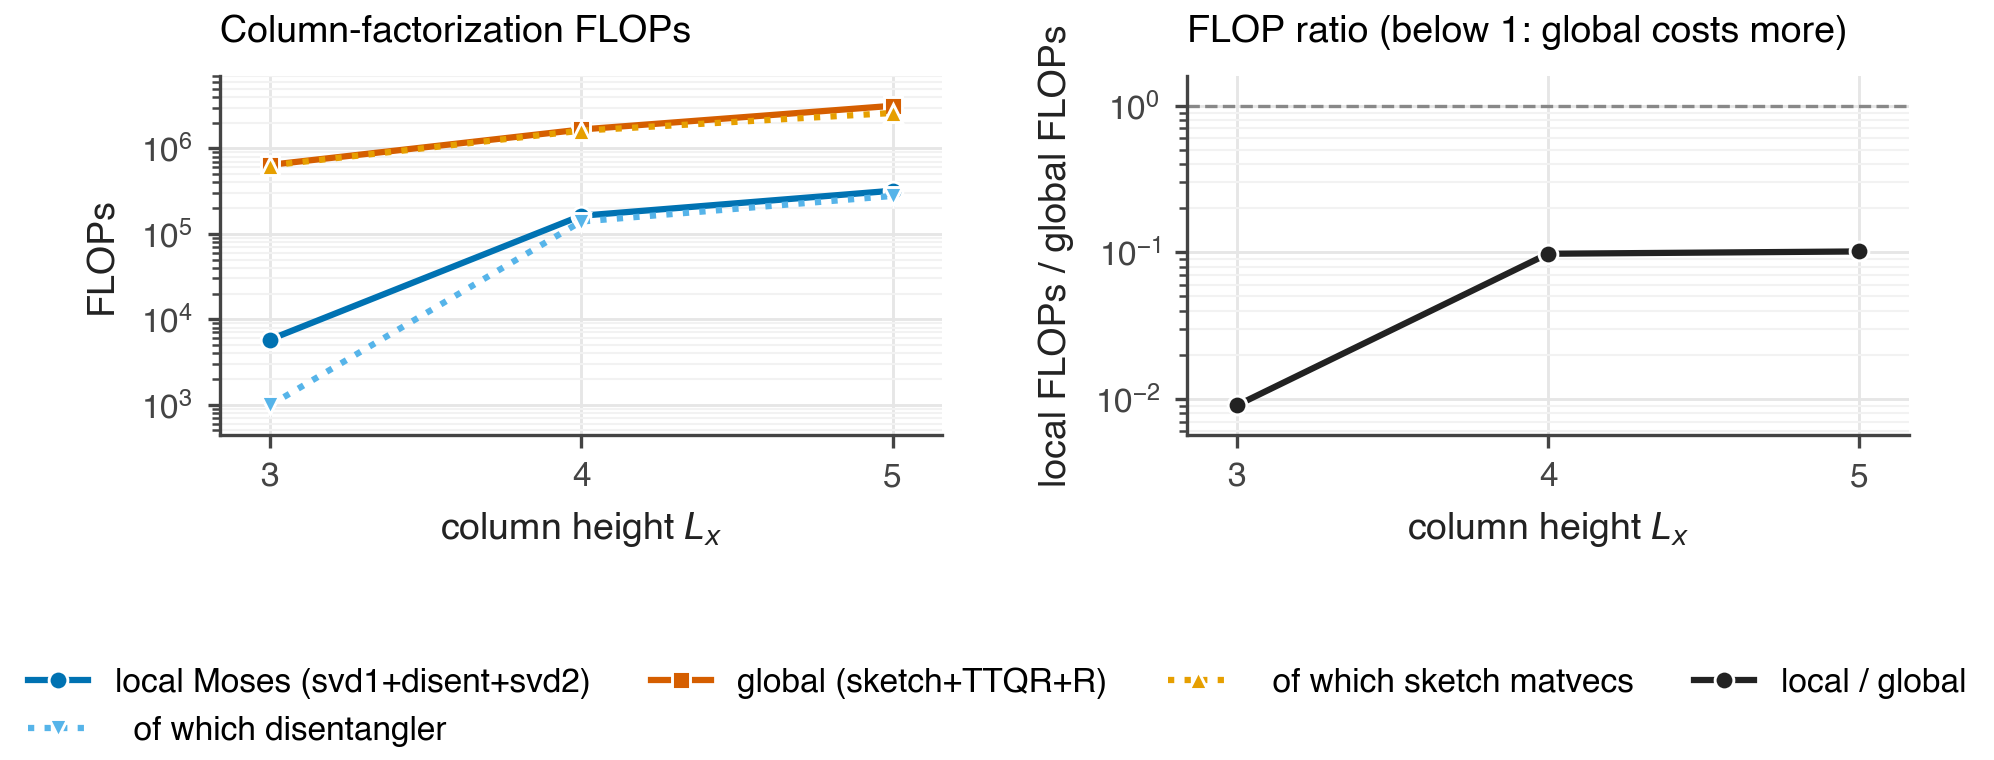
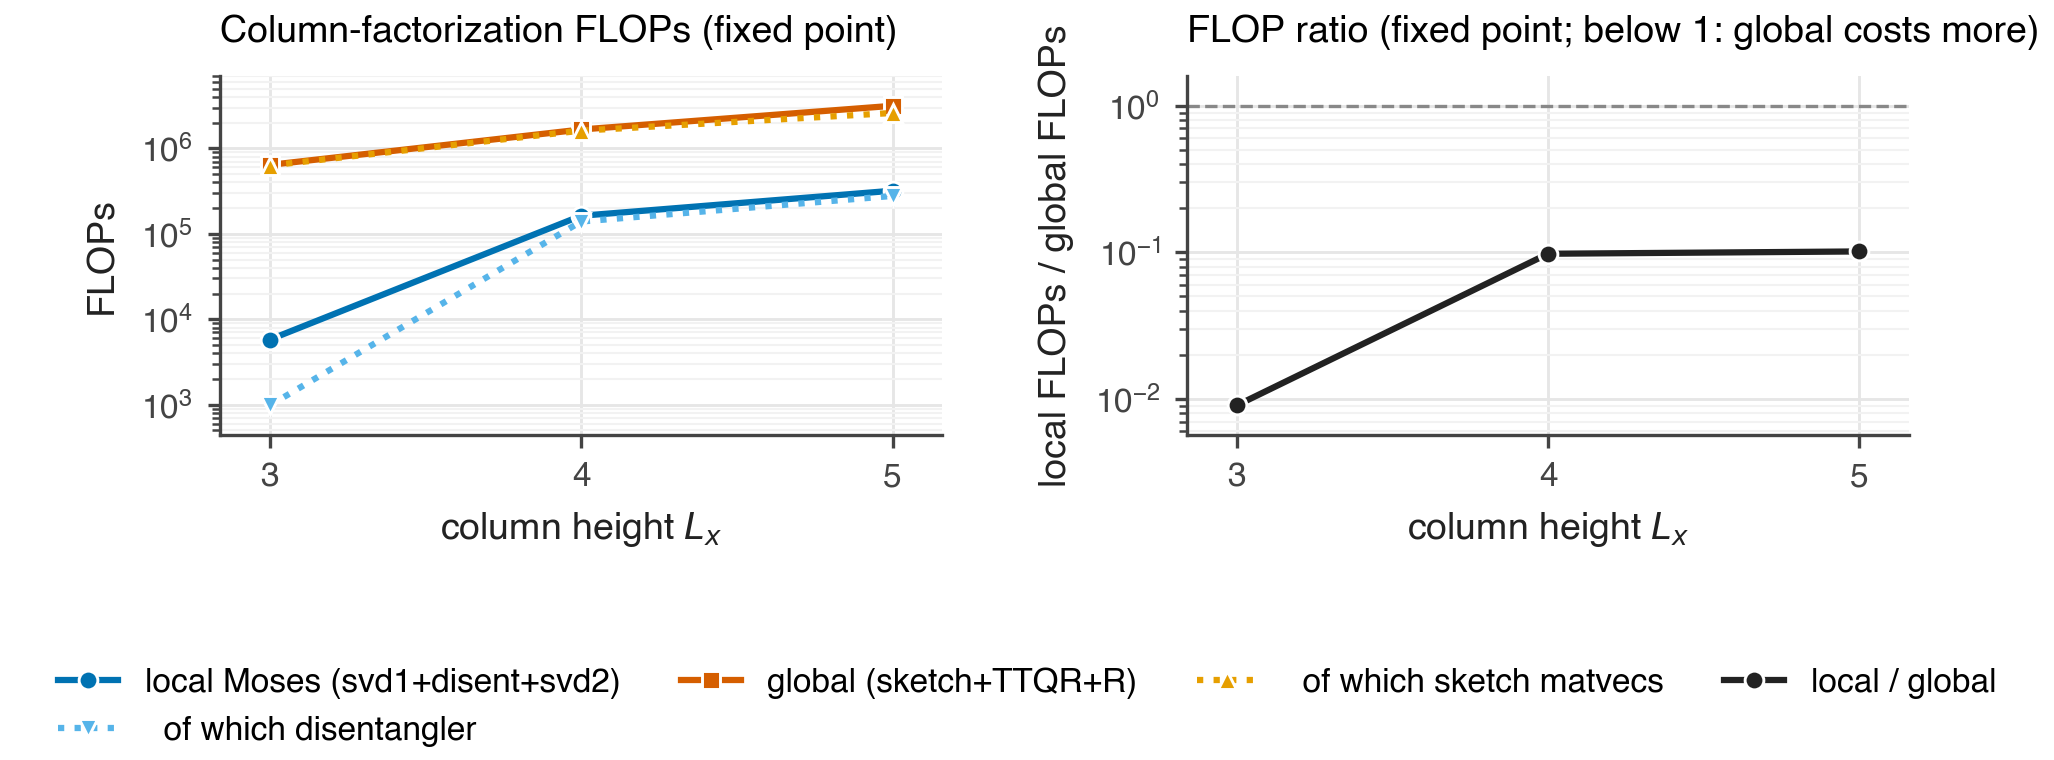
exp7: label the cost figure as the fixed operating point (not accuracy-matched)
The exp7 cost comparison charges global at a fixed ell=eta+oversample,
eta_q=eta -- overkill for an effective-rank ~2 physical column -- so its
'global 4-100x more expensive' read is a fixed-point artifact that exp08
corrects at matched accuracy. Title now says so; figure regenerated.

diff --git a/experiments/column_sketch/scripts/exp07_cost_comparison.py b/experiments/column_sketch/scripts/exp07_cost_comparison.py
@@ -167,13 +167,15 @@ def make_plot(rows, fig_path, args):
     xs = sorted({int(r["lx"]) for r in rows})
     ratio = [float(np.median([float(r["flop_ratio"]) for r in rows if int(r["lx"]) == x])) for x in xs]
     panel_a = Panel(
-        "Column-factorization FLOPs", r"column height $L_x$", "FLOPs", "log",
+        "Column-factorization FLOPs (fixed point)", r"column height $L_x$", "FLOPs", "log",
         _series(rows, SERIES_ORDER),
     )
     panel_b = Panel(
-        # title carries the directional reading so the y-label stays short/precise
-        "FLOP ratio (below 1: global costs more)", r"column height $L_x$",
-        "local FLOPs / global FLOPs", "log",
+        # title flags that this is the FIXED point, NOT accuracy-matched: global is
+        # charged at ell=eta+oversample, eta_q=eta -- overkill for an effective-rank ~2
+        # physical column. exp08 is the accuracy-matched counterpart (where it ties).
+        "FLOP ratio (fixed point; below 1: global costs more)",
+        r"column height $L_x$", "local FLOPs / global FLOPs", "log",
         [Series(label="local / global", x=[float(x) for x in xs], y=ratio,
                 color="#222222", marker="o")],
         hlines=[1.0],  # break-even: above 1 local costs more, below 1 global costs more
